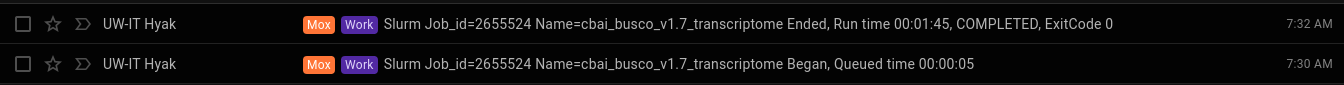
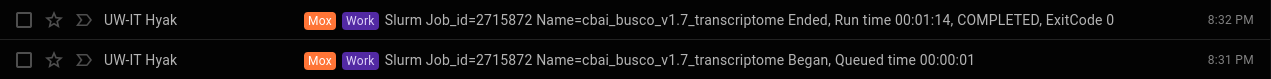
add updated runtime with fixed fastqs

diff --git a/_posts/2020/2020-05-27-Transcriptome-Assessment---BUSCO-Metazoa-on-C.bairdi-Transcriptome-v1.7.md b/_posts/2020/2020-05-27-Transcriptome-Assessment---BUSCO-Metazoa-on-C.bairdi-Transcriptome-v1.7.md
@@ -144,7 +144,7 @@ ${busco} \
 
 #### RESULTS
 
-As usual, super quick - 1m45s:
+As usual, super quick - 1m14s:
 
 ![cbai v1.7 busco runtime](https://github.com/RobertsLab/sams-notebook/blob/master/images/screencaps/20200527_cbai_busco_transcriptome_v1.7_runtime.png?raw=true)
 
